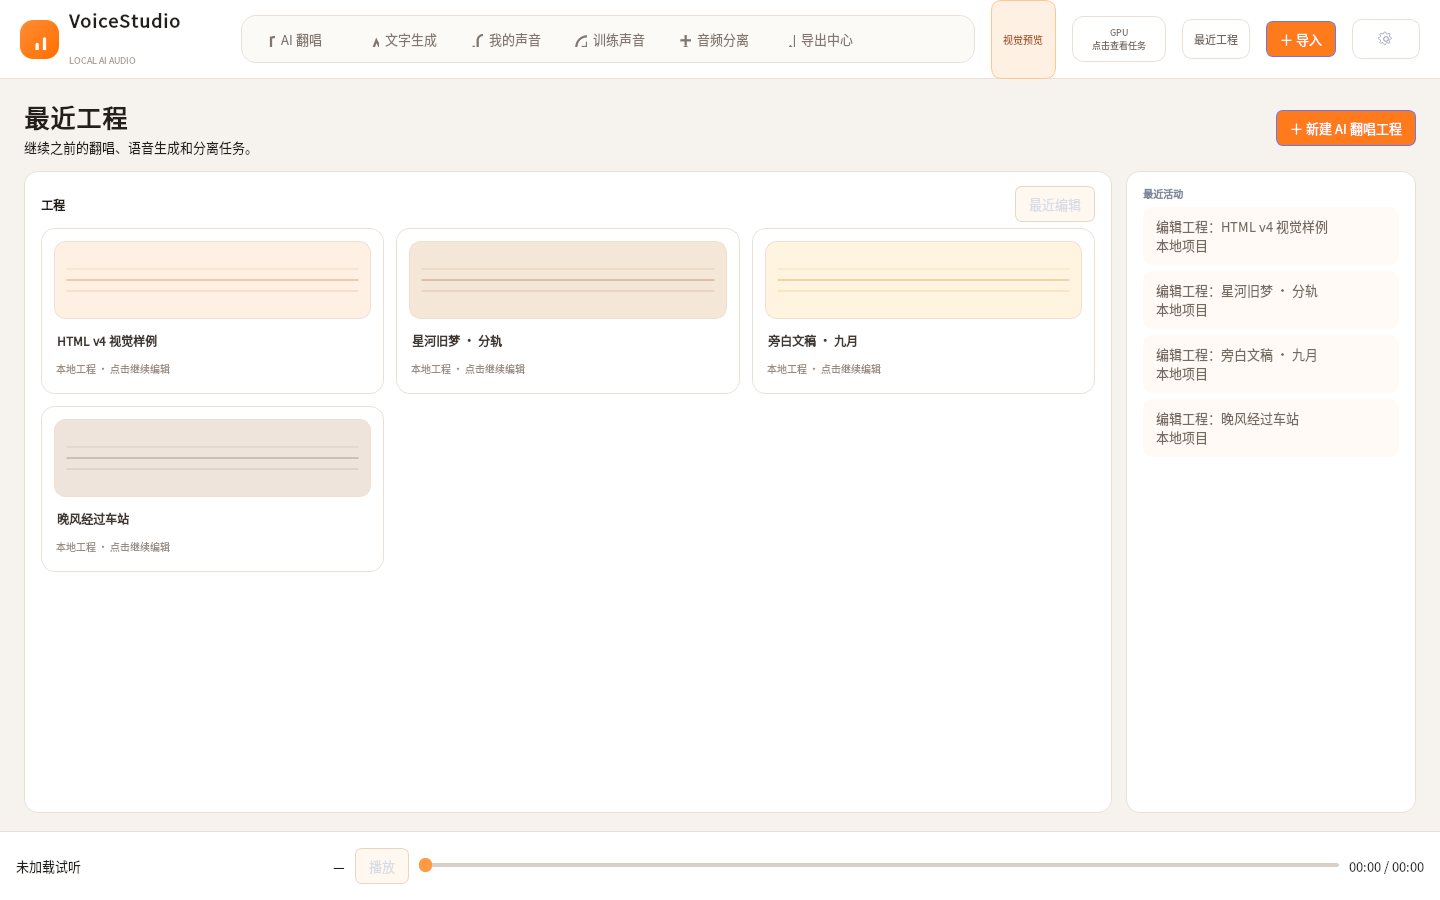
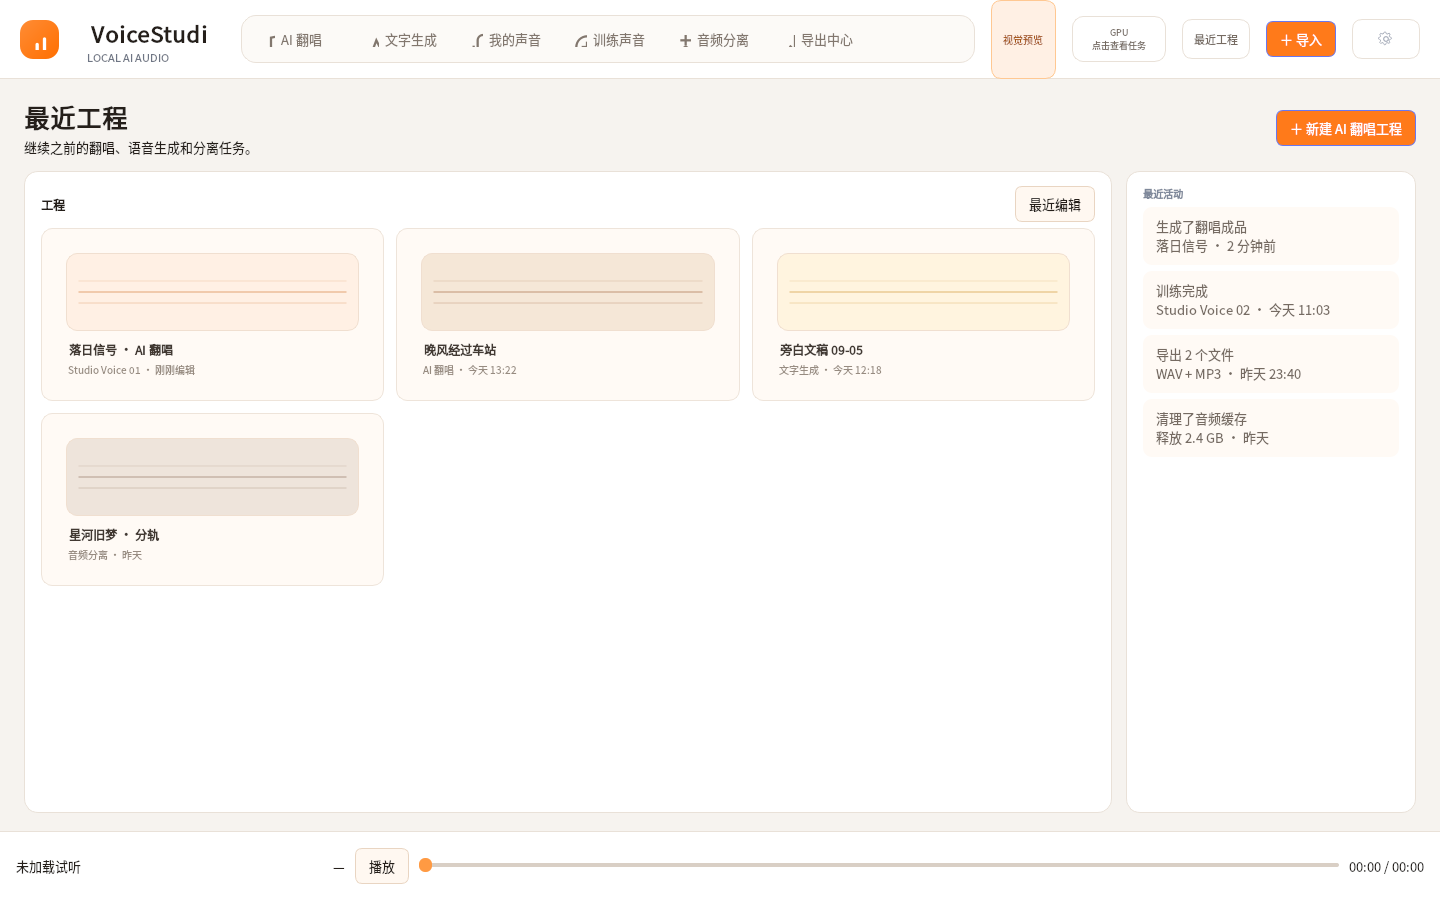
style(ui): match HTML v4 detail and export panels

diff --git a/src/local_voice_studio/ui/html_pages.py b/src/local_voice_studio/ui/html_pages.py
@@ -332,7 +332,10 @@ class ExportsStudioPage(QWidget):
         for key, label in (("all", "全部"), ("cover", "翻唱"), ("voice", "语音")):
             button = QPushButton(label); button.setCheckable(True); button.setObjectName("exportFilter"); button.clicked.connect(lambda _checked=False, value=key: self._set_filter(value)); self.filters[key] = button; head.addWidget(button)
         list_layout.addLayout(head); list_layout.addWidget(ExportTableRow()); self.rows = QVBoxLayout(); self.rows.setSpacing(0); list_layout.addLayout(self.rows); list_layout.addStretch(); body.addWidget(listing, 1)
-        side = QFrame(); side.setObjectName("exportsSide"); side.setFixedWidth(290); side_layout = QVBoxLayout(side); side_layout.setContentsMargins(16, 14, 16, 14); side_layout.addWidget(QLabel("本地存储", objectName="sectionLabel")); self.storage = QLabel(); self.storage.setObjectName("exportsStorage"); self.storage.setWordWrap(True); side_layout.addWidget(self.storage); side_layout.addWidget(QLabel("默认导出格式", objectName="sectionLabel")); self.formats = QLabel("WAV  无损\nMP3  320 kbps\nFLAC  无损压缩\n\n导出文件始终保留在本地项目目录。", objectName="cardSub"); self.formats.setWordWrap(True); side_layout.addWidget(self.formats); side_layout.addStretch(); refresh = QPushButton("刷新磁盘扫描"); self.refresh_button = refresh; refresh.setObjectName("secondaryButton"); refresh.clicked.connect(self.refresh); side_layout.addWidget(refresh); body.addWidget(side); root.addLayout(body, 1); self.refresh()
+        side = QFrame(); side.setObjectName("exportsSide"); side.setFixedWidth(290); side_layout = QVBoxLayout(side); side_layout.setContentsMargins(16, 14, 16, 14); side_layout.setSpacing(10); side_layout.addWidget(QLabel("本地存储", objectName="sectionLabel")); storage_card = QFrame(); storage_card.setObjectName("exportsStorageCard"); storage_layout = QVBoxLayout(storage_card); storage_layout.setContentsMargins(10, 10, 10, 10); storage_layout.setSpacing(7); self.storage = QLabel(); self.storage.setObjectName("exportsStorage"); self.storage.setWordWrap(True); storage_layout.addWidget(self.storage); self.storage_bar = QProgressBar(); self.storage_bar.setRange(0, 100); self.storage_bar.setValue(63); self.storage_bar.setTextVisible(False); self.storage_bar.setObjectName("exportsStorageBar"); storage_layout.addWidget(self.storage_bar); self.storage_breakdown = QLabel("模型 78 GB · 工程 34 GB · 缓存 14 GB"); self.storage_breakdown.setObjectName("exportsStorageBreakdown"); self.storage_breakdown.setWordWrap(True); storage_layout.addWidget(self.storage_breakdown); side_layout.addWidget(storage_card); side_layout.addWidget(QLabel("默认导出格式", objectName="sectionLabel")); format_card = QFrame(); format_card.setObjectName("exportsFormatCard"); format_layout = QVBoxLayout(format_card); format_layout.setContentsMargins(10, 10, 10, 10); format_layout.setSpacing(8); format_grid = QGridLayout(); format_grid.setSpacing(7); self.format_buttons = []
+        for index, (label, detail) in enumerate((("WAV", "无损"), ("MP3", "320 kbps"), ("FLAC", "无损压缩"), ("M4A", "AAC"))):
+            button = QPushButton(f"{label}\n{detail}"); button.setObjectName("exportFormatButton"); button.setCheckable(True); button.setChecked(index < 2); button.clicked.connect(lambda _checked=False, value=label: self.storage.setText(f"默认格式已选择：{value}")); format_grid.addWidget(button, index // 2, index % 2); self.format_buttons.append(button)
+        format_layout.addLayout(format_grid); batch = QFrame(); batch.setObjectName("exportsBatchCard"); batch_layout = QVBoxLayout(batch); batch_layout.setContentsMargins(8, 8, 8, 8); batch_title = QLabel("批量处理队列"); batch_title.setObjectName("exportsBatchTitle"); batch_layout.addWidget(batch_title); batch_copy = QLabel("可以把多首歌曲或多个音色加入本地任务队列。\nGPU 会按顺序处理。", objectName="cardSub"); batch_copy.setWordWrap(True); batch_layout.addWidget(batch_copy); self.batch_button = QPushButton("打开任务队列"); self.batch_button.setObjectName("miniButton"); self.batch_button.clicked.connect(lambda: self.storage.setText("任务队列请从顶部 GPU 入口打开。")); batch_layout.addWidget(self.batch_button); format_layout.addWidget(batch); side_layout.addWidget(format_card); side_layout.addStretch(); refresh = QPushButton("刷新磁盘扫描"); self.refresh_button = refresh; refresh.setObjectName("secondaryButton"); refresh.clicked.connect(self.refresh); side_layout.addWidget(refresh); body.addWidget(side); root.addLayout(body, 1); self.refresh()
 
     def _set_filter(self, value):
         self.filter = value; self.refresh()
@@ -364,7 +367,10 @@ class ExportsStudioPage(QWidget):
         try:
             import shutil
             usage = shutil.disk_usage(self.store.paths.data_root)
-            self.storage.setText(f"可用 {usage.free / 1024**3:.1f} GB / 共 {usage.total / 1024**3:.1f} GB\n当前项目找到 {len(files)} 个真实导出文件。")
+            used = max(0, min(100, round((usage.total - usage.free) / max(usage.total, 1) * 100)))
+            self.storage_bar.setValue(used)
+            self.storage.setText(f"{used}%\n{(usage.total - usage.free) / 1024**3:.1f} / {usage.total / 1024**3:.1f} GB")
+            self.storage_breakdown.setText(f"当前项目 {len(files)} 个真实导出文件 · 可用 {usage.free / 1024**3:.1f} GB")
         except OSError:
             self.storage.setText(f"当前项目找到 {len(files)} 个真实导出文件。")
 

diff --git a/src/local_voice_studio/ui/preview.py b/src/local_voice_studio/ui/preview.py
@@ -20,7 +20,7 @@ from ..storage import StudioStore
 from .studio_widgets import TrackStatus
 from .cover_session import LyricLine
 from .export_rows import ExportRowData, ExportTableRow
-from .html_pages import PreviewStemWave
+from .html_pages import PreviewStemWave, RecentProjectCard
 
 
 class PreviewWorkerClient(QObject):
@@ -216,7 +216,9 @@ def apply_preview_presentation(window) -> None:
         for kind, name, source in shown:
             exports.rows.addWidget(ExportTableRow(ExportRowData(name, source, kind, "", "视觉样例")))
         exports.rows.addStretch()
-        exports.storage.setText("视觉预览\n4 个布局样例 · 不占用本地存储\n\n正常模式只扫描真实本地导出文件。")
+        exports.storage.setText("63%\n126 / 200 GB\n视觉预览 · 不占用本地存储")
+        exports.storage_bar.setValue(63)
+        exports.storage_breakdown.setText("模型 78 GB · 工程 34 GB · 缓存 14 GB\n视觉预览不占用本地存储")
     render_preview_exports()
     for key, button in exports.filters.items():
         try:
@@ -285,7 +287,30 @@ def apply_preview_presentation(window) -> None:
         pass
     training.singing_train_button.clicked.connect(lambda: training.singing_status.setText("视觉预览不提交歌唱模型训练。"))
 
-    window.recent_page.refresh()
+    recent = window.recent_page
+    def clear_recent(layout) -> None:
+        while layout.count():
+            item = layout.takeAt(0)
+            if item.widget() is not None:
+                widget = item.widget()
+                widget.hide()
+                widget.setParent(None)
+                widget.deleteLater()
+    clear_recent(recent.grid)
+    clear_recent(recent.activity)
+    project_paths = {str(item.get("name") or ""): Path(item["path"]) for item in window.store.list_projects()}
+    recent_samples = (
+        ("HTML v4 视觉样例", "落日信号 · AI 翻唱", "Studio Voice 01 · 刚刚编辑"),
+        ("晚风经过车站", "晚风经过车站", "AI 翻唱 · 今天 13:22"),
+        ("旁白文稿 · 九月", "旁白文稿 09-05", "文字生成 · 今天 12:18"),
+        ("星河旧梦 · 分轨", "星河旧梦 · 分轨", "音频分离 · 昨天"),
+    )
+    for index, (project_name, title, meta) in enumerate(recent_samples):
+        card = RecentProjectCard(project_paths.get(project_name, window.project), title, meta, index)
+        card.open_requested.connect(recent.project_selected.emit)
+        recent.grid.addWidget(card, index // 3, index % 3)
+    for title, meta in (("生成了翻唱成品", "落日信号 · 2 分钟前"), ("训练完成", "Studio Voice 02 · 今天 11:03"), ("导出 2 个文件", "WAV + MP3 · 昨天 23:40"), ("清理了音频缓存", "释放 2.4 GB · 昨天")):
+        activity = QLabel(f"{title}\n{meta}"); activity.setObjectName("recentActivityItem"); activity.setWordWrap(True); recent.activity.addWidget(activity)
 
 
 def create_preview_window():
@@ -325,10 +350,12 @@ def create_preview_window():
     window._header_layout.insertWidget(2, badge)
     apply_preview_presentation(window)
     window.voice_page.refresh()
+    window.voice_page.detail_wave.set_visual_sample(True)
+    window.voice_page.detail_wave.show()
+    window.voice_page.detail_note.hide()
     try:
         window.voice_page.import_models.clicked.disconnect()
     except RuntimeError:
         pass
     window.voice_page.import_models.clicked.connect(lambda: window.voice_page.detail_note.setText("视觉预览不打开文件选择器，也不会登记或启用模型文件。"))
-    window.recent_page.refresh()
     return window
